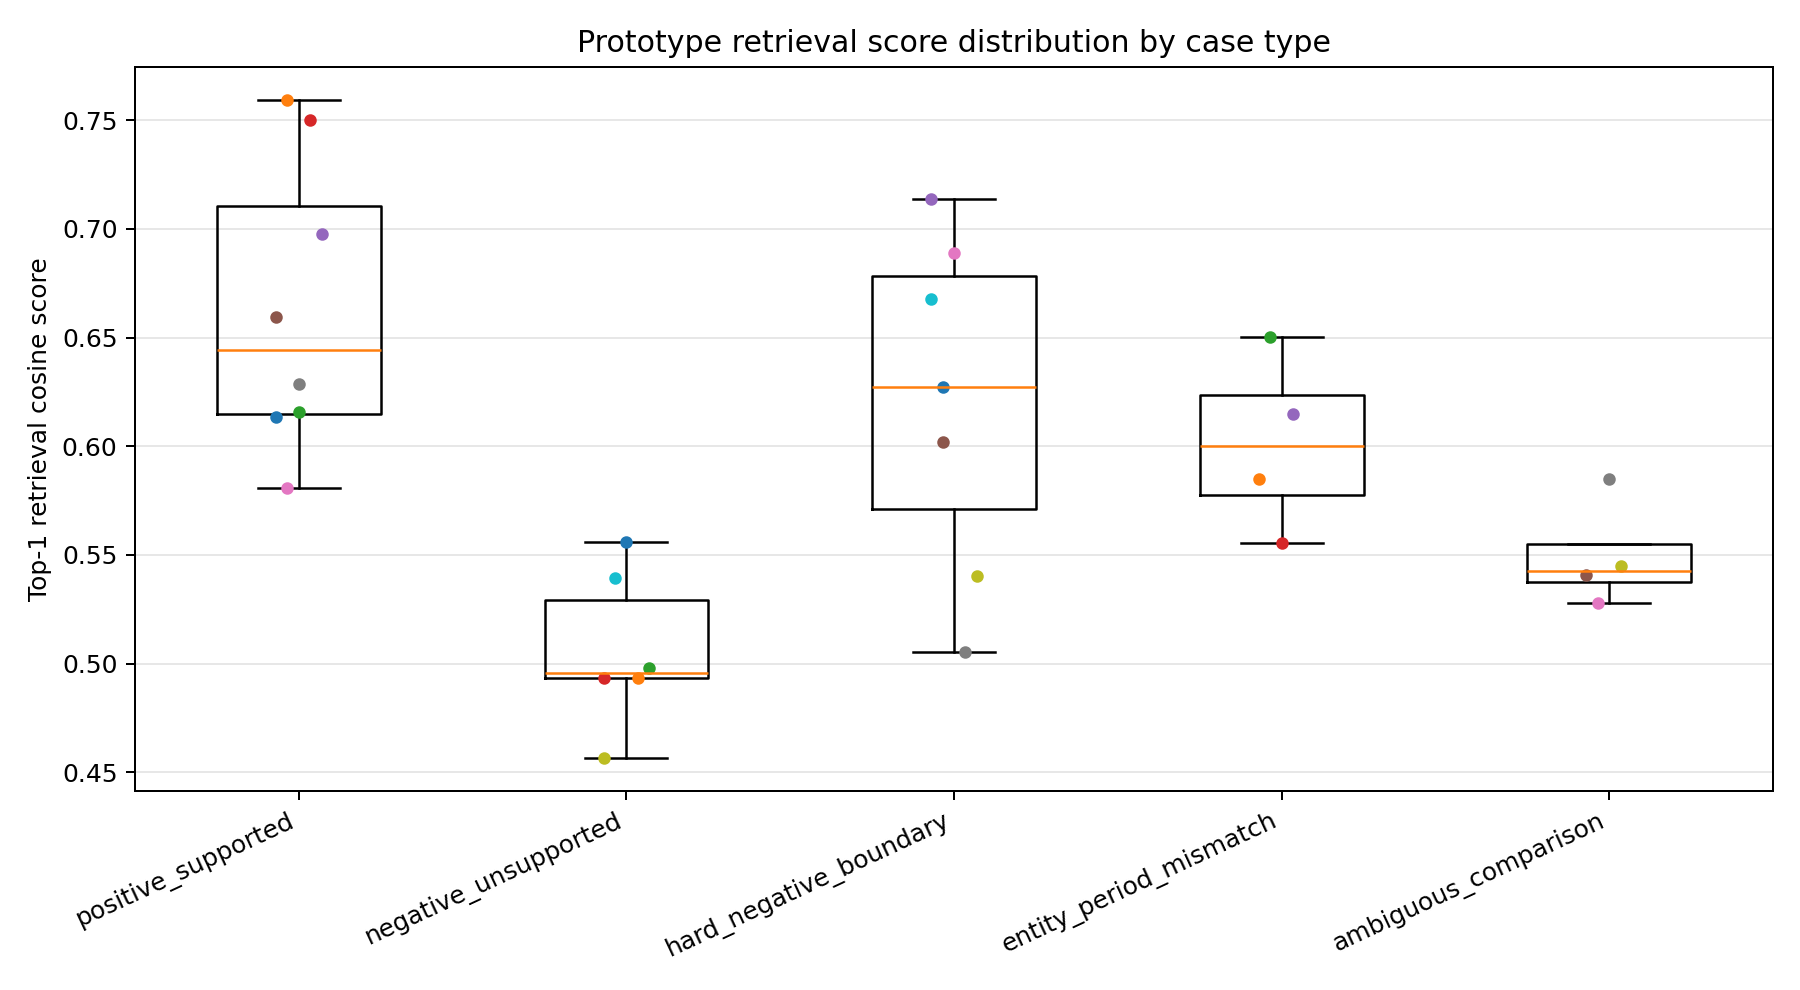
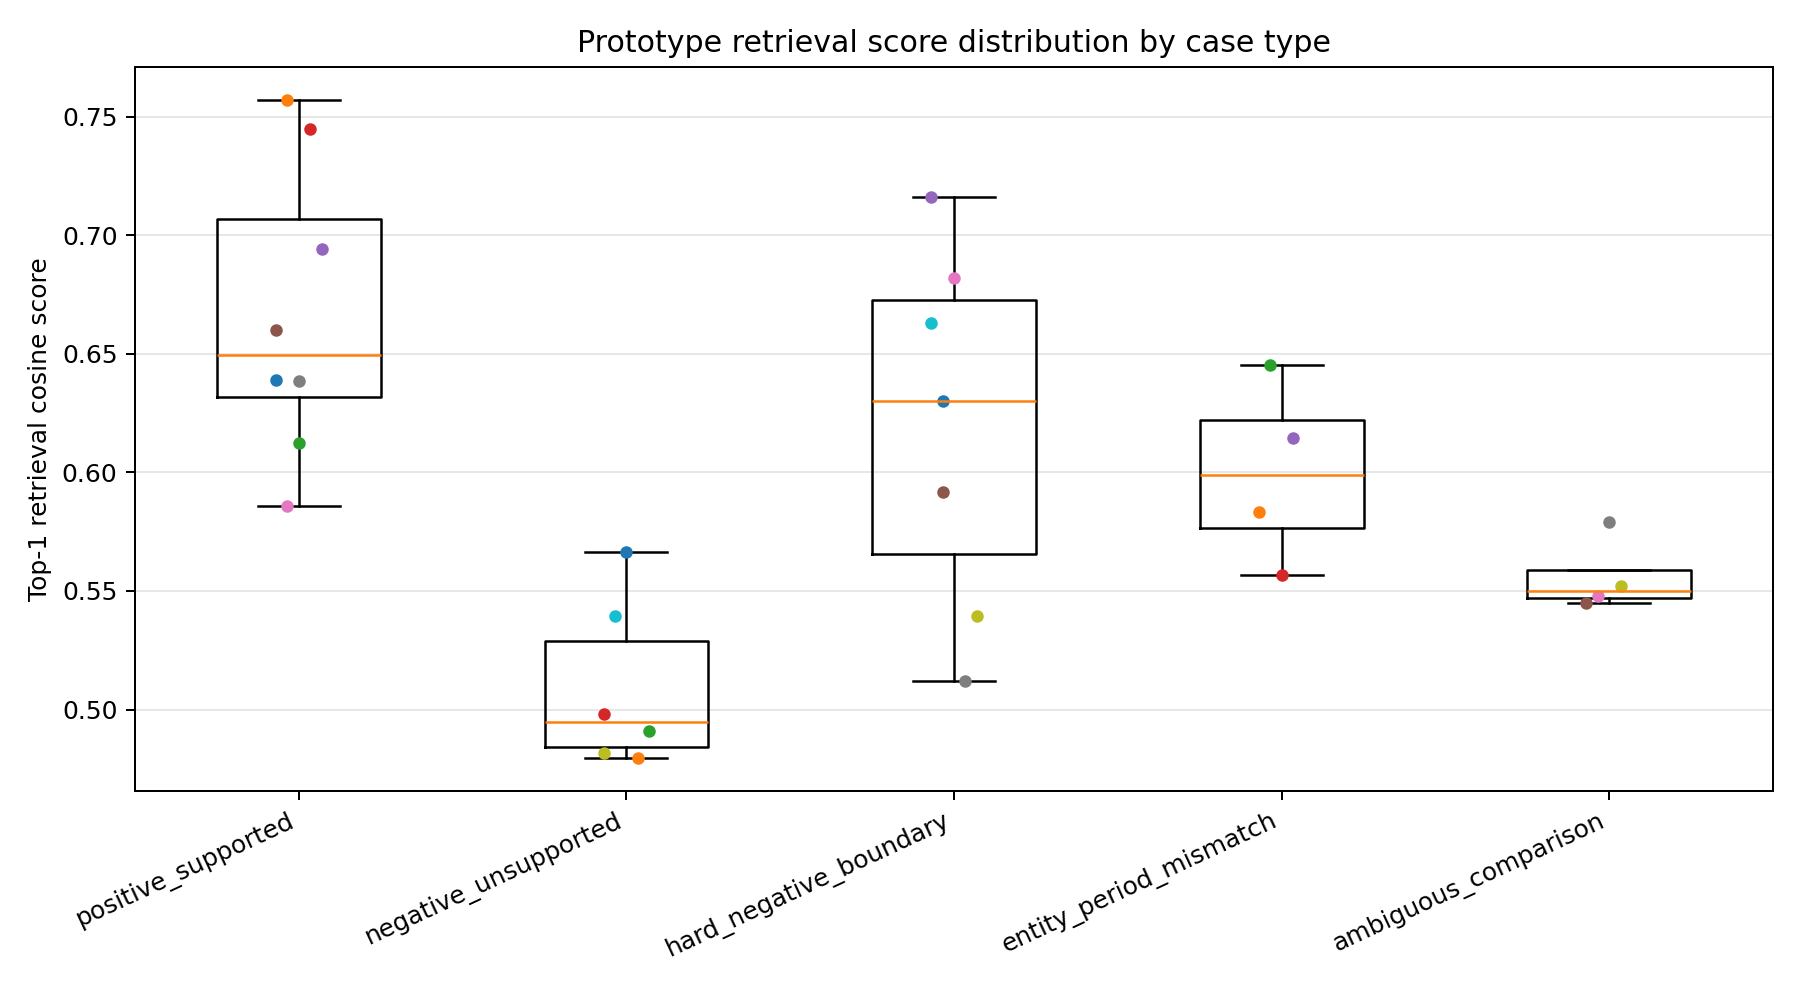
Refresh retrieval threshold experiment

diff --git a/retail_ops/outputs/retrieval_threshold_summary.md b/retail_ops/outputs/retrieval_threshold_summary.md
@@ -10,12 +10,12 @@ The purpose is to inspect retrieval-threshold behavior. It is not a production-l
 
 ## Corpus
 
-- Retrieval units loaded: 302
+- Retrieval units loaded: 307
 - Unit definition: one generated memory fact or one chunked field-contract/source-note segment; this is not a store count or a count of independent business observations.
[2 lines of base64/hex data omitted]
 - Corpus builder: `eval/retail_retrieval_corpus.py::load_retail_retrieval_documents`
-- Run commit: `8e697d2be6bc2eef96ce5252fb6ee9fbca62c80d`
[1 lines of base64/hex data omitted]
+- Run commit: `84ce33fbddaa0c5e5190efa5c5de1d80eb29db27`
[1 lines of base64/hex data omitted]
 - Applicability note: the scope hash identifies the clean experiment-relevant code and input snapshot. The run commit is retained for navigation. Later unrelated commits do not invalidate the result. Run `python3 eval/check_retrieval_result_applicability.py` to check the current scope.
 - Retrieval threshold cases: 29
 - Embedding model: `bge-m3` via local Ollama
@@ -40,17 +40,17 @@ The purpose is to inspect retrieval-threshold behavior. It is not a production-l
 
 | Case type | Cases | Top-1 min | Top-1 p25 | Top-1 median | Top-1 p75 | Top-1 max | Median margin | Expected hit@5 |
 |---|---:|---:|---:|---:|---:|---:|---:|---:|
-| ambiguous_comparison | 4 | 0.5279 | 0.5374 | 0.5427 | 0.5549 | 0.5852 | 0.0043 | 3/4 |
-| entity_period_mismatch | 4 | 0.5555 | 0.5776 | 0.5999 | 0.6238 | 0.6504 | 0.0088 | 1/4 |
-| hard_negative_boundary | 7 | 0.5055 | 0.5711 | 0.6271 | 0.6784 | 0.7139 | 0.0085 | 5/7 |
-| negative_unsupported | 6 | 0.4566 | 0.4933 | 0.4957 | 0.5290 | 0.5561 | 0.0085 | 0/6 |
-| positive_supported | 8 | 0.5809 | 0.6150 | 0.6441 | 0.7108 | 0.7593 | 0.0213 | 8/8 |
+| ambiguous_comparison | 4 | 0.5450 | 0.5471 | 0.5499 | 0.5588 | 0.5790 | 0.0051 | 3/4 |
+| entity_period_mismatch | 4 | 0.5568 | 0.5765 | 0.5988 | 0.6221 | 0.6453 | 0.0132 | 1/4 |
+| hard_negative_boundary | 7 | 0.5119 | 0.5658 | 0.6301 | 0.6726 | 0.7161 | 0.0154 | 5/7 |
+| negative_unsupported | 6 | 0.4796 | 0.4842 | 0.4946 | 0.5291 | 0.5666 | 0.0133 | 0/6 |
+| positive_supported | 8 | 0.5859 | 0.6319 | 0.6494 | 0.7067 | 0.7570 | 0.0289 | 8/8 |
 
 ## Threshold Interpretation
 
 A reference threshold can be inspected for the trade-off between unsupported retrieval noise and supported evidence retention.
 
-An exploratory reference threshold from this small corpus is around `0.5720`, midway between the positive-supported p25 score `0.6150` and the negative-unsupported p75 score `0.5290`. This is an inspection reference, not a production cutoff or an answer-decision rule.
+An exploratory reference threshold from this small corpus is around `0.5805`, midway between the positive-supported p25 score `0.6319` and the negative-unsupported p75 score `0.5291`. This is an inspection reference, not a production cutoff or an answer-decision rule.
 
 High scores in hard-negative boundary cases are expected. They show that a semantically related fact can be retrieved even when the correct answer should still refuse or qualify the requested conclusion.
 
